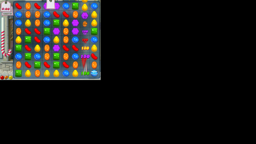
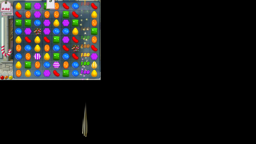
more color range

Changed region(s): [[0.0312, 0.0, 0.4062, 0.5556], [0.3125, 0.75, 0.3438, 0.9444], [0.0, 0.2222, 0.0312, 0.3333]]

diff --git a/Daemon.py b/Daemon.py
@@ -10,15 +10,15 @@ def getCandy(color):
 
     if (r > 200 and g < 10 and b < 10):
         return "R"
-    if (r in range(20,60) and g in range(140,200) and b > 240):
+    if (r in range(20,100) and g in range(140,220) and b > 230):
         return "B"
-    if (r > 240 and g in range(200, 250) and b < 50):
+    if (r > 240 and g in range(200, 250) and b < 90):
         return "Y"
-    if (r > 240 and g in range(130, 180) and b < 50):
+    if (r > 240 and g in range(130, 180) and b < 90):
         return "O"    
-    if (r in range(180, 210) and g in range(30, 50) and b > 250):
+    if (r in range(180, 240) and g in range(30, 180) and b > 240):
         return "P"  
-    if (r in range(40, 100) and g in range(70, 210) and b < 50):
+    if (r in range(40, 160) and g in range(70, 255) and b < 130):
         return "G"  
     return color
 
@@ -94,13 +94,13 @@ while True:
         screenshot = screenshot.resize((256, 144))
         screenshot = reduce_color_palette(screenshot)
         board = (codifyBoard(screenshot))
-        # print(board)
+        print(board)
         #save image
         screenshot.save("screenshot.png")
 
         if True:
             movement = myAgent.calcularMovimientos(board)
-            # print (movement)
+            print (movement)
             actuador(movement)
 
     sys.stdout.flush()  
